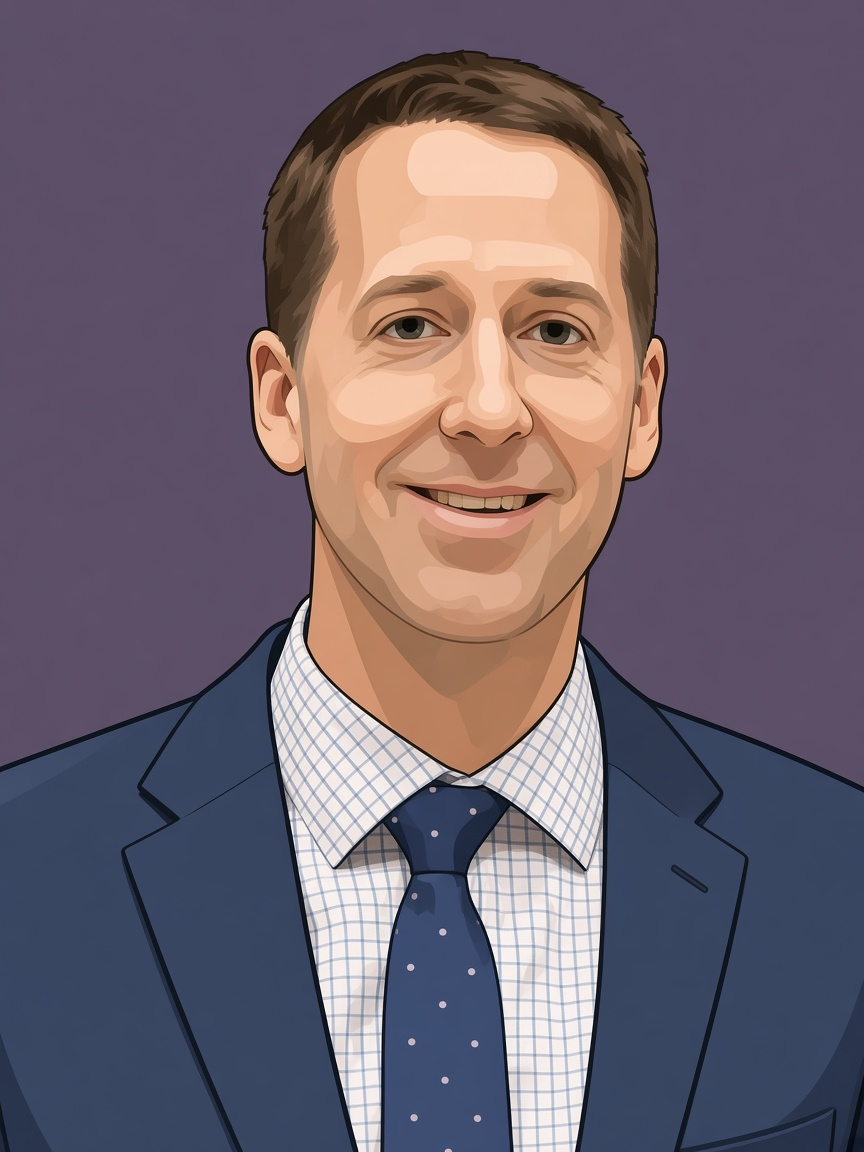
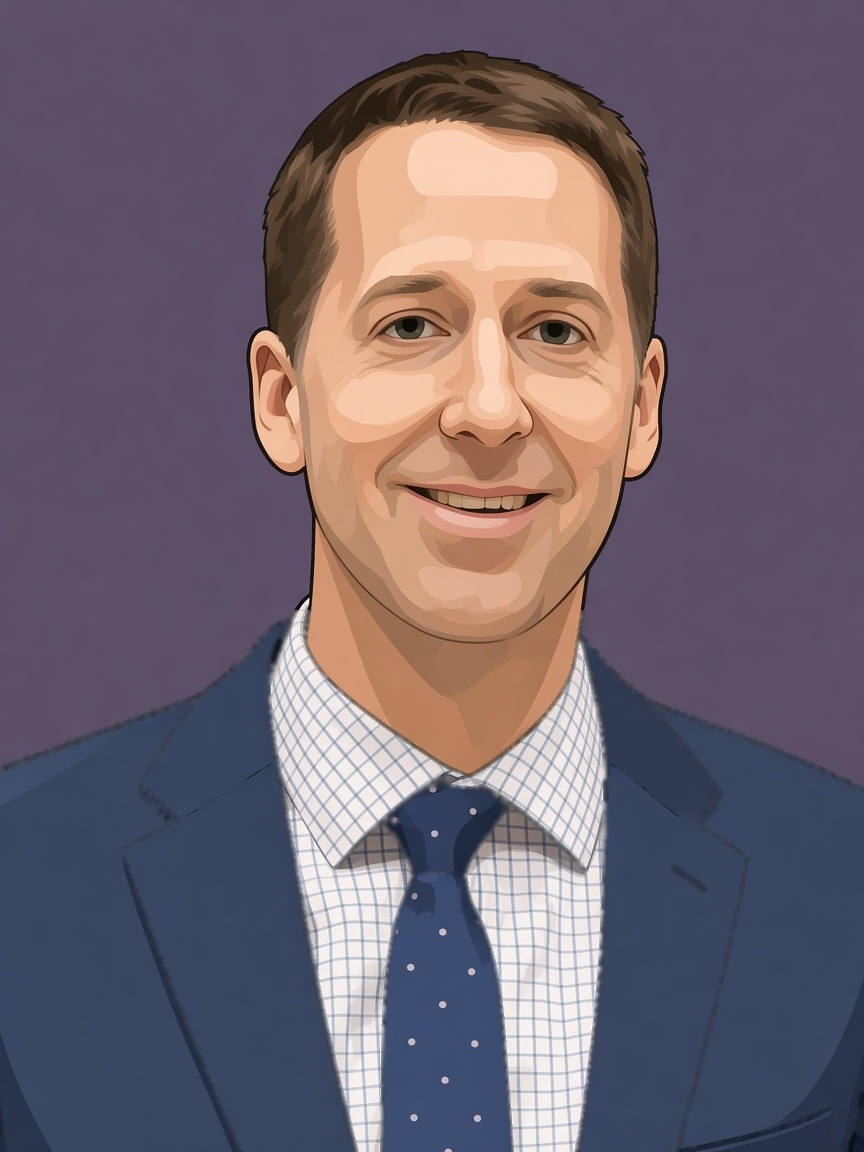
Soften the black clothing lines on Neal Bangerter's portrait.

diff --git a/class-onsite.html b/class-onsite.html
@@ -2,7 +2,7 @@
 <html lang="en">
 <head>
   <meta charset="utf-8">
-  <script src="roster-data.js?v=27"></script>
+  <script src="roster-data.js?v=28"></script>
   <script>if(new URLSearchParams(location.search).get("p")&&new URLSearchParams(location.search).get("p")!=="gunther-roland")document.documentElement.classList.add("prof-pending");</script>
   <style>html.prof-pending body{visibility:hidden}</style>
 

diff --git a/class-recorded.html b/class-recorded.html
@@ -2,7 +2,7 @@
 <html lang="en">
 <head>
   <meta charset="utf-8">
-  <script src="roster-data.js?v=27"></script>
+  <script src="roster-data.js?v=28"></script>
   <script>if(new URLSearchParams(location.search).get("p")&&new URLSearchParams(location.search).get("p")!=="gunther-roland")document.documentElement.classList.add("prof-pending");</script>
   <style>html.prof-pending body{visibility:hidden}</style>
 

diff --git a/class.html b/class.html
@@ -2,7 +2,7 @@
 <html lang="en">
 <head>
   <meta charset="utf-8">
-  <script src="roster-data.js?v=27"></script>
+  <script src="roster-data.js?v=28"></script>
   <script>if(new URLSearchParams(location.search).get("p")&&new URLSearchParams(location.search).get("p")!=="gunther-roland")document.documentElement.classList.add("prof-pending");</script>
   <style>html.prof-pending body{visibility:hidden}</style>
 

diff --git a/index.html b/index.html
@@ -2,7 +2,7 @@
 <html lang="en">
 <head>
   <meta charset="utf-8">
-  <script src="roster-data.js?v=27"></script>
+  <script src="roster-data.js?v=28"></script>
   <script>if(new URLSearchParams(location.search).get("p")&&new URLSearchParams(location.search).get("p")!=="gunther-roland")document.documentElement.classList.add("prof-pending");</script>
   <style>html.prof-pending body{visibility:hidden}</style>
 

diff --git a/research.html b/research.html
@@ -2,7 +2,7 @@
 <html lang="en">
 <head>
   <meta charset="utf-8">
-  <script src="roster-data.js?v=27"></script>
+  <script src="roster-data.js?v=28"></script>
   <script>if(new URLSearchParams(location.search).get("p")&&new URLSearchParams(location.search).get("p")!=="gunther-roland")document.documentElement.classList.add("prof-pending");</script>
   <style>html.prof-pending body{visibility:hidden}</style>
 

diff --git a/roster-data.js b/roster-data.js
@@ -1024,7 +1024,7 @@ window.LECTURE_ROSTER = [
       }
     ],
     "joinCopy": "Work with Neal Bangerter on Brain-machine interfaces, Medical imaging, Signal processing.",
-    "photo": "assets/portraits/neal-bangerter.jpg",
+    "photo": "assets/portraits/neal-bangerter.jpg?v=2",
     "template": false
   },
   {
